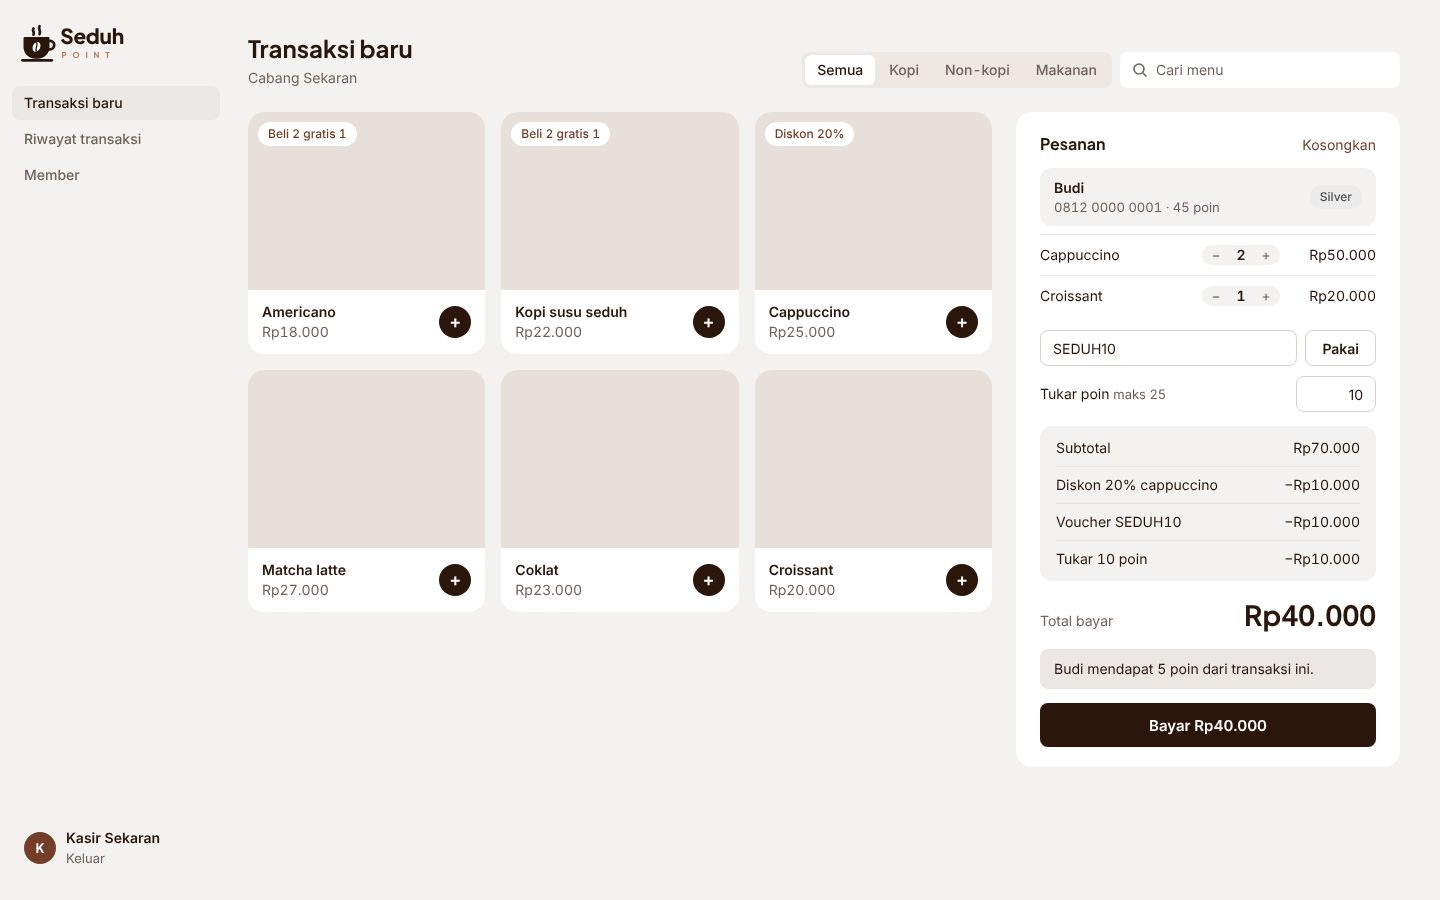
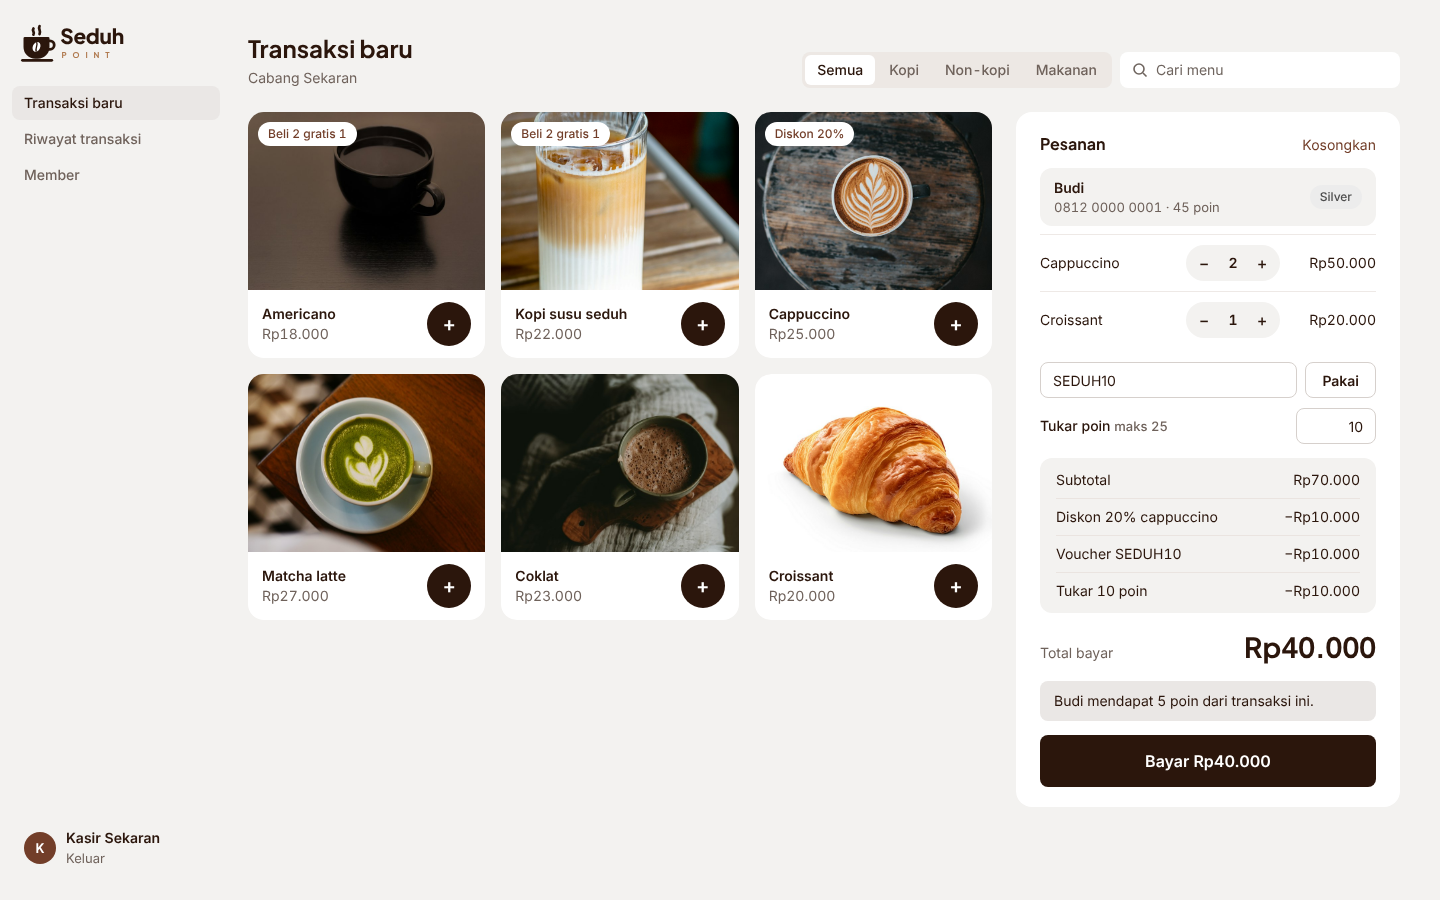
feat(ui): tambah foto menu dan login, perbaiki UI/UX serta aksesibilitas

diff --git a/docs/sketsa/style.css b/docs/sketsa/style.css
@@ -67,8 +67,8 @@ a { color: var(--accent); text-decoration: none; }
 .btn.ghost { background: var(--surface); color: var(--ink); border: 1px solid #D6D0CC; }
 .btn.quiet { background: var(--tint); color: var(--ink); }
 .btn.bad { background: var(--bad); }
-.btn.block { width: 100%; height: 44px; font-size: 15px; }
-.btn.round { width: 32px; height: 32px; padding: 0; border-radius: 50%; font-size: 18px; }
+.btn.block { width: 100%; height: 52px; font-size: 16px; }
+.btn.round { width: 44px; height: 44px; padding: 0; border-radius: 50%; font-size: 20px; }
 .field { margin-bottom: 16px; }
 label { display: block; font-weight: 500; margin-bottom: 6px; }
 .input { width: 100%; height: 36px; border: 1px solid #D6D0CC; border-radius: var(--r-ctl); background: #fff; padding: 0 12px; font: 400 14px var(--font); color: var(--ink); }
@@ -119,7 +119,8 @@ textarea.input { height: auto; padding: 10px 12px; }
 
 .order .line { display: grid; grid-template-columns: 1fr auto 84px; gap: 12px; align-items: center; padding: 10px 0; border-top: 1px solid var(--line); }
 .stepper { display: inline-flex; align-items: center; background: var(--ground); border-radius: 999px; }
-.stepper span { width: 28px; text-align: center; color: var(--ink-2); }
+.stepper button { width: 36px; height: 36px; border: 0; background: none; border-radius: 50%; color: var(--ink); font: 500 16px var(--font); cursor: pointer; }
+.stepper button:hover { background: #E4E0DD; }
 .stepper b { width: 22px; text-align: center; font-weight: 600; }
 .well { background: var(--ground); border-radius: 12px; padding: 4px 16px; }
 .well .kv { display: flex; justify-content: space-between; padding: 8px 0; }
@@ -159,4 +160,25 @@ textarea.input { height: auto; padding: 10px 12px; }
   .title-row { flex-direction: column; align-items: stretch; } .title-row > div:last-child { flex-wrap: wrap; }
   .search { width: 100%; } .login { grid-template-columns: 1fr; } .login .photo { min-height: 220px; }
   .table .hide-sm { display: none; } .receipt { width: 100%; }
+}
+
+/* Interaksi (UI/UX Pro Max: kursor, umpan balik hover/fokus 150ms, reduced motion) */
+.btn, .seg span, .nav-item, .dish, a { cursor: pointer; transition: background-color .15s ease, color .15s ease, border-color .15s ease; }
+.btn:hover { background: #432617; } .btn.ghost:hover { background: var(--ground); } .btn.quiet:hover { background: #E2DDD9; }
+.btn.bad:hover { background: #87231A; }
+.nav-item:hover { background: #ECE9E7; color: var(--ink); } .seg span:hover { color: var(--ink); }
+.dish { transition: box-shadow .15s ease; } .dish:hover { box-shadow: 0 0 0 2px var(--accent); }
+:focus-visible { outline: 2px solid var(--accent); outline-offset: 2px; }
+.input:focus { border-color: var(--accent); outline: none; box-shadow: 0 0 0 3px rgba(114, 62, 41, .15); }
+.btn:disabled { background: #CFC9C5; color: #fff; cursor: not-allowed; }
+.field-error { color: var(--bad); font-size: 13px; margin-top: 4px; }
+@media (prefers-reduced-motion: reduce) { * { transition: none !important; } }
+/* Tablet kasir (1024–1280px): menu 2 kolom agar panel pesanan tetap lega */
+@media (min-width: 901px) and (max-width: 1280px) {
+  .app { grid-template-columns: 200px 1fr; }
+  .main { padding-right: 24px; }
+  .grid { grid-template-columns: 1fr !important; }          /* daftar + detail bertumpuk */
+  .grid.pos { grid-template-columns: 1fr 340px !important; } /* kasir tetap dua kolom */
+  .menu { grid-template-columns: repeat(2, 1fr); }
+  .title-row { flex-wrap: wrap; }
 }

diff --git a/docs/sketsa/README.md b/docs/sketsa/README.md
@@ -23,7 +23,6 @@ Inspector: **0 FAIL** di 9 halaman (1440px & 390px). Sisa WARN dan alasannya:
 - `ragged-row` di daftar + panel detail (member, produk, promo, kasir): panel detail sengaja memakai
   tinggi isinya sendiri (`align-items: start`), sesuai saran app-screens §4.2; panel pesanan kasir *sticky*.
 - `hero-void` di struk & riwayat: halaman memang pendek; dengan data nyata tabel akan terisi.
-- Login `panel-void`: hilang setelah foto login diunduh.
 
 Perbaikan dari putaran review:
 1. Tombol & input tanpa bayangan (dulu `box-shadow` sebagai garis tepi) → border 1px datar.
@@ -33,6 +32,22 @@ Perbaikan dari putaran review:
 5. Tampilan HP: sidebar dilipat jadi bar + tombol Menu, kolom bertumpuk, menu 2 kolom.
 6. Angka memakai digit tabular di seluruh halaman; teks kecil minimal 13px.
 
-Skor kritik (juri: desain 40%, kegunaan 30%, kreativitas 20%, konten 10%), sebelum foto asli:
-desain 7 · kegunaan 8 · kreativitas 6.5 · konten 7.5 → **7.2**. Target ≥ 7.5 setelah foto menu & login masuk
-(batas TasteSkill: < 4 foto asli membatasi skor desain 6.5).
+Skor kritik (juri: desain 40%, kegunaan 30%, kreativitas 20%, konten 10%):
+- Putaran 1 (tanpa foto): desain 7 · kegunaan 8 · kreativitas 6.5 · konten 7.5 → **7.2**
+- Putaran 2 (8 foto Unsplash, logo dipindah ke sisi form login): desain 8 · kegunaan 8 · kreativitas 7 · konten 8 → **7.8**
+Sisa catatan: foto croissant berlatar putih sedikit beda nuansa dengan foto lain (ganti bila ada yang lebih cocok).
+
+## Review lanjutan: UI/UX Pro Max + aksesibilitas (axe-core, aturan WCAG 2.2 AA)
+Rekomendasi gaya UI/UX Pro Max (glassmorphism gelap, Fira) **tidak dipakai** karena bertentangan dengan
+brand kopi dan aturan TasteSkill; yang dipakai adalah aturan prioritasnya:
+
+| Prioritas | Temuan | Perbaikan |
+|---|---|---|
+| 1 Aksesibilitas | 19 input tanpa label (axe `label`, kritis); login tanpa landmark `main` | Semua input punya `<label for>` / `aria-label`; login dibungkus `<main>`; error `role="alert"` |
+| 1 Aksesibilitas | Tombol "+" dan stepper hanya ikon | `aria-label` ("Tambah Americano", "Kurangi croissant"); foto menu `role="img"` + label |
+| 2 Sentuhan | Tombol tambah 32px, stepper 28px (kasir bisa pakai tablet layar sentuh) | Tombol tambah 44px, stepper 36px, tombol Bayar 52px |
+| 2 Interaksi | Tidak ada umpan balik hover/fokus | Hover 150ms, cincin fokus `:focus-visible`, kursor pointer, `prefers-reduced-motion` |
+| 5 Responsif | Di 1024px halaman bergeser ke samping 40–147px | Tablet: daftar & detail bertumpuk, kasir tetap 2 kolom (menu 2 kolom + panel 340px) |
+| 8 Form | Login tanpa `autocomplete` | `autocomplete="username"` / `current-password` (password manager) |
+
+Hasil akhir: **axe-core 0 pelanggaran** di 9 halaman; TasteSkill inspector **0 FAIL** di 1440, 1024 dan 390px.

diff --git a/static/img/KREDIT.md b/static/img/KREDIT.md
@@ -4,3 +4,11 @@ Semua foto dari Unsplash (https://unsplash.com/license), bebas dipakai.
 
 | File | Foto |
 |---|---|
+| menu\americano.jpg | https://unsplash.com/photos/-G07QTORSeE |
+| menu\kopi-susu.jpg | https://unsplash.com/photos/nIZl9PuwMXk |
+| menu\cappuccino.jpg | https://unsplash.com/photos/tA90pRfL2gM |
+| menu\matcha.jpg | https://unsplash.com/photos/U4kneR_s7bU |
+| menu\coklat.jpg | https://unsplash.com/photos/7GkyzWeM0eg |
+| menu\croissant.jpg | https://unsplash.com/photos/VzUE5RtCuBA |
+| menu\roti-bakar.jpg | https://unsplash.com/photos/AlX2WLwPKXk |
+| login.jpg | https://unsplash.com/photos/21tOEaJPM_o |
